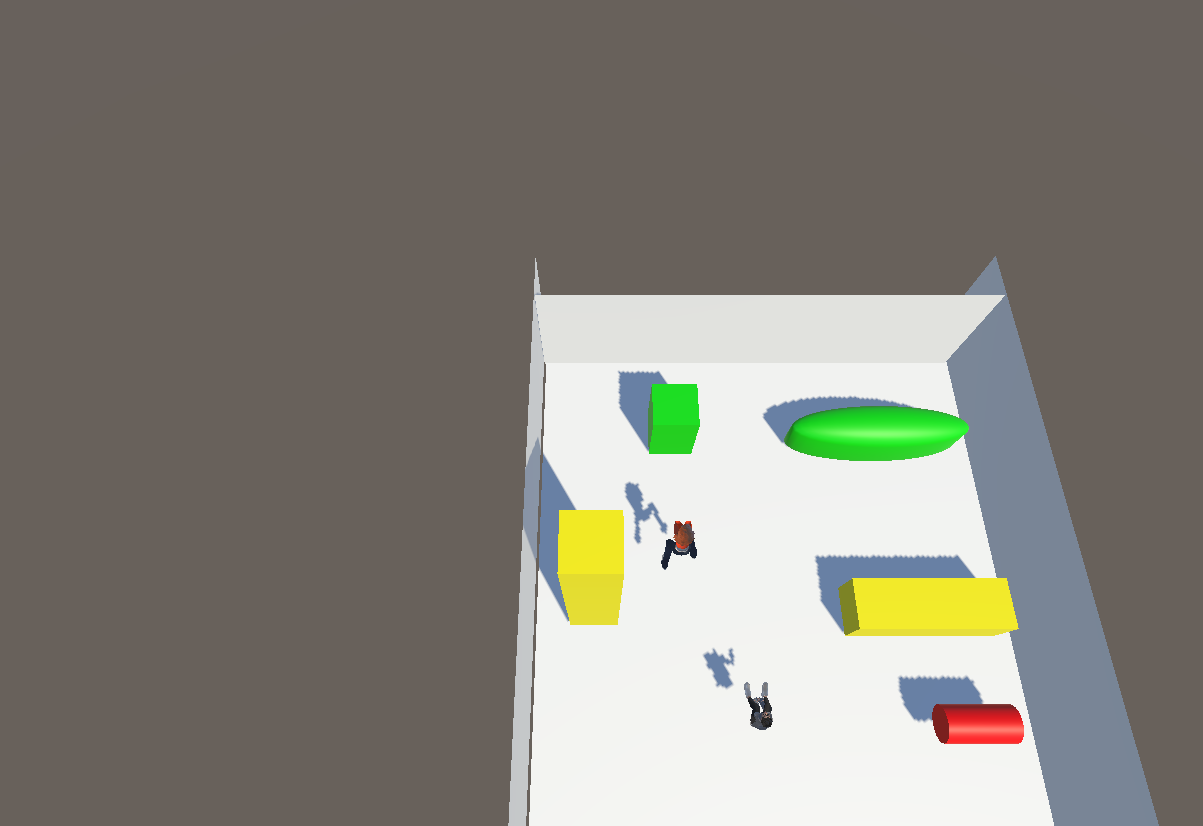
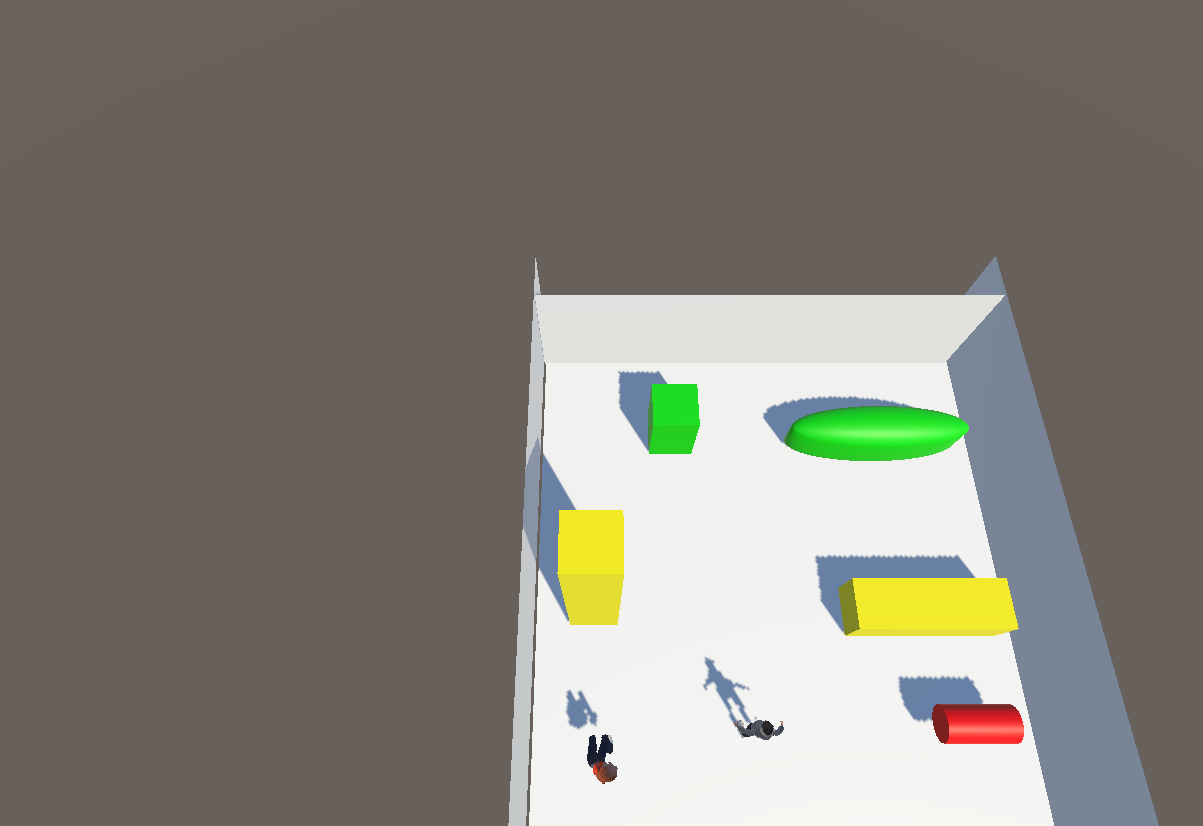
guide waits to move until being grabbed, follows player when not grabbed

diff --git a/Assets/Scripts/AIGuide.cs b/Assets/Scripts/AIGuide.cs
@@ -10,6 +10,8 @@ public class AIGuide : MonoBehaviour
     private AutomaticGuide m_AutomatedGuideScript;
     private OpenAIQueries m_OpenAIQueriesScript;
     private VRHandling m_VRHandlingScript;
+    private SharedMovement m_SharedMovementScript;
+    private GuideFollow m_GuideFollowScript;
 
     // Variables for monitoring
     private int whisperCalls = 0;
@@ -18,6 +20,9 @@ public class AIGuide : MonoBehaviour
     private int voiceCalls = 0;
     private bool firstQuery = true;
     private bool buttonPressed = false;
+
+    // Variables for testing -- TO BE REMOVED LATER
+    public bool playerGrab = true;
 
     // Start is called before the first frame update
     void Start()
@@ -30,8 +35,8 @@ public class AIGuide : MonoBehaviour
         if (navMeshAgent == null)
             gameObject.AddComponent<NavMeshAgent>();
         //gameObject.AddComponent<WizardControls>();
-        gameObject.AddComponent<GuideFollow>();
 
+        m_GuideFollowScript = gameObject.AddComponent<GuideFollow>();
         m_AutomatedGuideScript = gameObject.AddComponent(typeof(AutomaticGuide)) as AutomaticGuide;
         m_OpenAIQueriesScript = gameObject.AddComponent(typeof(OpenAIQueries)) as OpenAIQueries;
         m_VRHandlingScript = gameObject.AddComponent(typeof(VRHandling)) as VRHandling;
@@ -45,6 +50,10 @@ public class AIGuide : MonoBehaviour
     // Update is called once per frame
     void Update()
     {
+        // Calls until the shared movement script is assigned (when we have a player and a guide)
+        // Needed for access to the player's interactions with the guide
+        getSharedMovement();
+
         // If PC user presses and holds space
         if (Input.GetKey(KeyCode.Space))
         {
@@ -131,10 +140,25 @@ public class AIGuide : MonoBehaviour
         if (m_OpenAIQueriesScript.targetForGuidance != null)
         {
             Debug.Log("Has a target to move to: " + m_OpenAIQueriesScript.targetForGuidance);
-            if (m_OpenAIQueriesScript.modeOfTransportation == "guide")
-                m_AutomatedGuideScript.GuideToPosition(m_OpenAIQueriesScript.targetForGuidance);
+
+            // If the player is grabbing the guide, call for the movement functions as appropriate
+            // Turn off guide follow until player lets go so that the guide begins to lead the player
+            if (m_SharedMovementScript.playerGrabbingGuide || playerGrab == true)
+            {
+                m_GuideFollowScript.enabled = false;
+                if (m_OpenAIQueriesScript.modeOfTransportation == "guide")
+                    m_AutomatedGuideScript.GuideToPosition(m_OpenAIQueriesScript.targetForGuidance);
+                else
+                    m_AutomatedGuideScript.TeleportToPosition(m_OpenAIQueriesScript.targetForGuidance);
+            }
             else
-                m_AutomatedGuideScript.TeleportToPosition(m_OpenAIQueriesScript.targetForGuidance);
+                m_GuideFollowScript.enabled = true;
         }
+    }
+
+    private void getSharedMovement()
+    {
+        if (m_SharedMovementScript == null)
+            m_SharedMovementScript = FindObjectOfType<SharedMovement>();
     }
 }

diff --git a/Assets/Scripts/SharedMovement.cs b/Assets/Scripts/SharedMovement.cs
@@ -22,6 +22,9 @@ public class SharedMovement : MonoBehaviour
     private InputDevice rightXRController;
     private InputDevice leftXRController;
 
+    // Variables to share player actions with other scripts
+    public bool playerGrabbingGuide = false;
+
     // Start is called before the first frame update
     void Start()
     {
@@ -45,10 +48,15 @@ public class SharedMovement : MonoBehaviour
                 {
                     StartCoroutine(Teleport());
                     rightXRController.SendHapticImpulse(1u, 0.25f, 1f);
+                    playerGrabbingGuide = true;
                 }
             }
             else
+            {
                 StopCoroutine(Teleport());
+                playerGrabbingGuide = false;
+            }
+                
 
             if (leftXRController.TryGetFeatureValue(CommonUsages.grip, out float gripValue2) && enteredTrigger)
             {
@@ -56,10 +64,14 @@ public class SharedMovement : MonoBehaviour
                 {
                     StartCoroutine(Teleport());
                     leftXRController.SendHapticImpulse(1u, 0.25f, 1f);
+                    playerGrabbingGuide = true;
                 }
             }
             else
+            {
                 StopCoroutine(Teleport());
+                playerGrabbingGuide = false;
+            }  
         }
     }
 

diff --git a/Assets/Scripts/OpenAIQueries.cs b/Assets/Scripts/OpenAIQueries.cs
@@ -179,7 +179,7 @@ public class OpenAIQueries : MonoBehaviour
 
             targetForGuidance = GameObject.Find(targetName);
             if (targetForGuidance != null)
-                result = "Alright. I am taking you to " + targetForGuidance.name;
+                result = "Alright. Grab on to me and I will take you to " + targetForGuidance.name;
         }
 
         var speechRequest = new OpenAI.Audio.SpeechRequest(result, "tts-1", OpenAI.Audio.SpeechVoice.Alloy);

diff --git a/Assets/Scripts/CameraSystem.cs b/Assets/Scripts/CameraSystem.cs
@@ -37,7 +37,7 @@ public class CameraSystem : MonoBehaviour
 
         // Begin capturing screenshots every 10 secs to keep guide updated on scene
         //InvokeRepeating("CaptureScreenshot", 0f, 10f);
-        //CaptureScreenshot();
+        CaptureScreenshot();
     }
 
     public void CaptureScreenshot()
